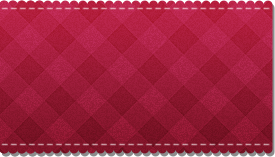
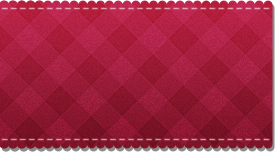
STYLING

diff --git a/md/app/webroot/css/style.css b/md/app/webroot/css/style.css
@@ -7,10 +7,16 @@
     margin: 0 auto;
     width: 998px;
 }*/
-body {
-    /*background-color: #EDF3F5;*/
+
+/*body {	
+    color:#878787;
+	background-repeat: no-repeat;
+	background: #FFFFFF url(../img/texture_08.png) center center fixed;    
+}*/
+
+body {    
 	background-color: #EDF3F5;
-    background-image: url("../img/texture_3.png");
+    background-image: url("../img/texture_08.jpg");
 }
 div.content {
 	color:#4c4c4c;
@@ -5226,7 +5232,7 @@ div.countbox{
 
 div.countdown{
 	position: absolute;
-	top: 190px;
+	top: 220px;
 	left:19px;
 }
 
@@ -5235,13 +5241,13 @@ div.countdown{
 /*********************** PRICE ******************/
 #md_price_block{
 	width:275px;
-	height:157px;
+	height:152px;
 	background: url(../img/final_ribbon_price_pink.png);
 	background-repeat:no-repeat;
 	position: absolute;
 	top: 35px;
 	left: -1px;
-	padding-top: 19px;
+	padding-top: 14px;
 }
 
 #md_price_economie_block{
@@ -5276,6 +5282,7 @@ p.oldprice span.dollar {
 	font-size:15px;
 	margin:-9px 0 0;
 	position:absolute;
+	text-decoration: line-through;
 }
 p.oldprice span {
 	font-size:15px;
@@ -5286,4 +5293,40 @@ p.oldprice span {
 
 p.oldprice span.cr{	
 	text-decoration: line-through;
+}
+
+#md_time_left_to_buy{
+	position: absolute;
+	top:211px;
+	color: #fff;
+	padding-left: 23px;
+}
+
+#md_price_value{
+	padding-top: 5px;
+}
+
+div.md_price_sep{
+	width: 275px;
+	height: 7px;	
+}
+
+#md_price_sep_time_to_left{
+	position: absolute;
+	top: 199px;
+	background: url(../img/md_price_sep.png) 65px;
+	background-repeat:no-repeat;
+}
+
+#md_price_sep_counter{
+	position: absolute;
+	top: 363px;
+	background: url(../img/md_price_sep.png) 65px;
+	background-repeat:no-repeat;
+}
+
+#md_nb_vendu{
+	position: absolute;
+	top: 400px;
+	padding-left: 28px;
 }
